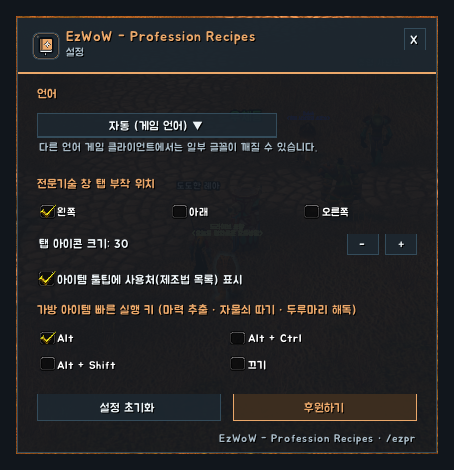
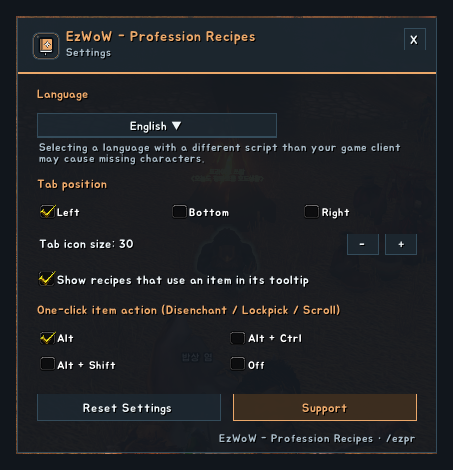
영어 설명용 게임 화면 추가

diff --git a/docs/curseforge_description.md b/docs/curseforge_description.md
@@ -12,7 +12,7 @@ A recipe book for WoW Forever: **12 professions and all their recipes** (camping
 
 ![Settings window](https://raw.githubusercontent.com/qqhrqqhr2/EzWoW-ProfessionRecipes/master/docs/images/settings_en.png)
 
-*In-game screenshots (WoW Forever, Korean client). Character and player names and chat text are blurred.*
+*In-game screenshots with the addon set to English. The game client is Korean, so game text such as zone, item and spell names stays Korean. Character and player names and chat text are blurred.*
 
 ## Features
 

diff --git a/README.md b/README.md
@@ -121,7 +121,7 @@ Professions: Alchemy · Blacksmithing · Enchanting · Engineering · Leatherwor
 
 ![Settings window](docs/images/settings_en.png)
 
-> In-game screenshots (WoW Forever, Korean client). Character and player names and chat text are blurred.
+> In-game screenshots with the addon set to English. The game client is Korean, so game text such as zone, item and spell names stays Korean. Character and player names and chat text are blurred.
 
 ### Installation
 
